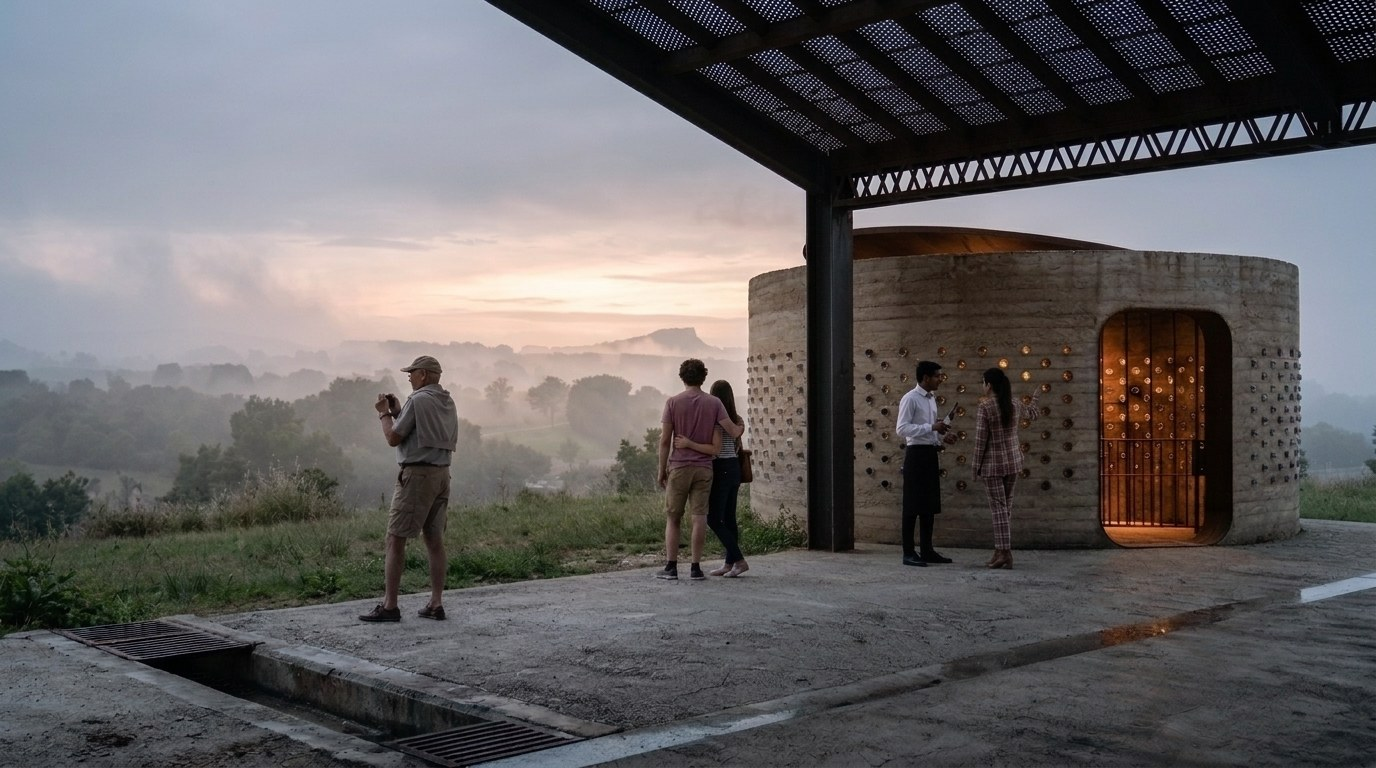
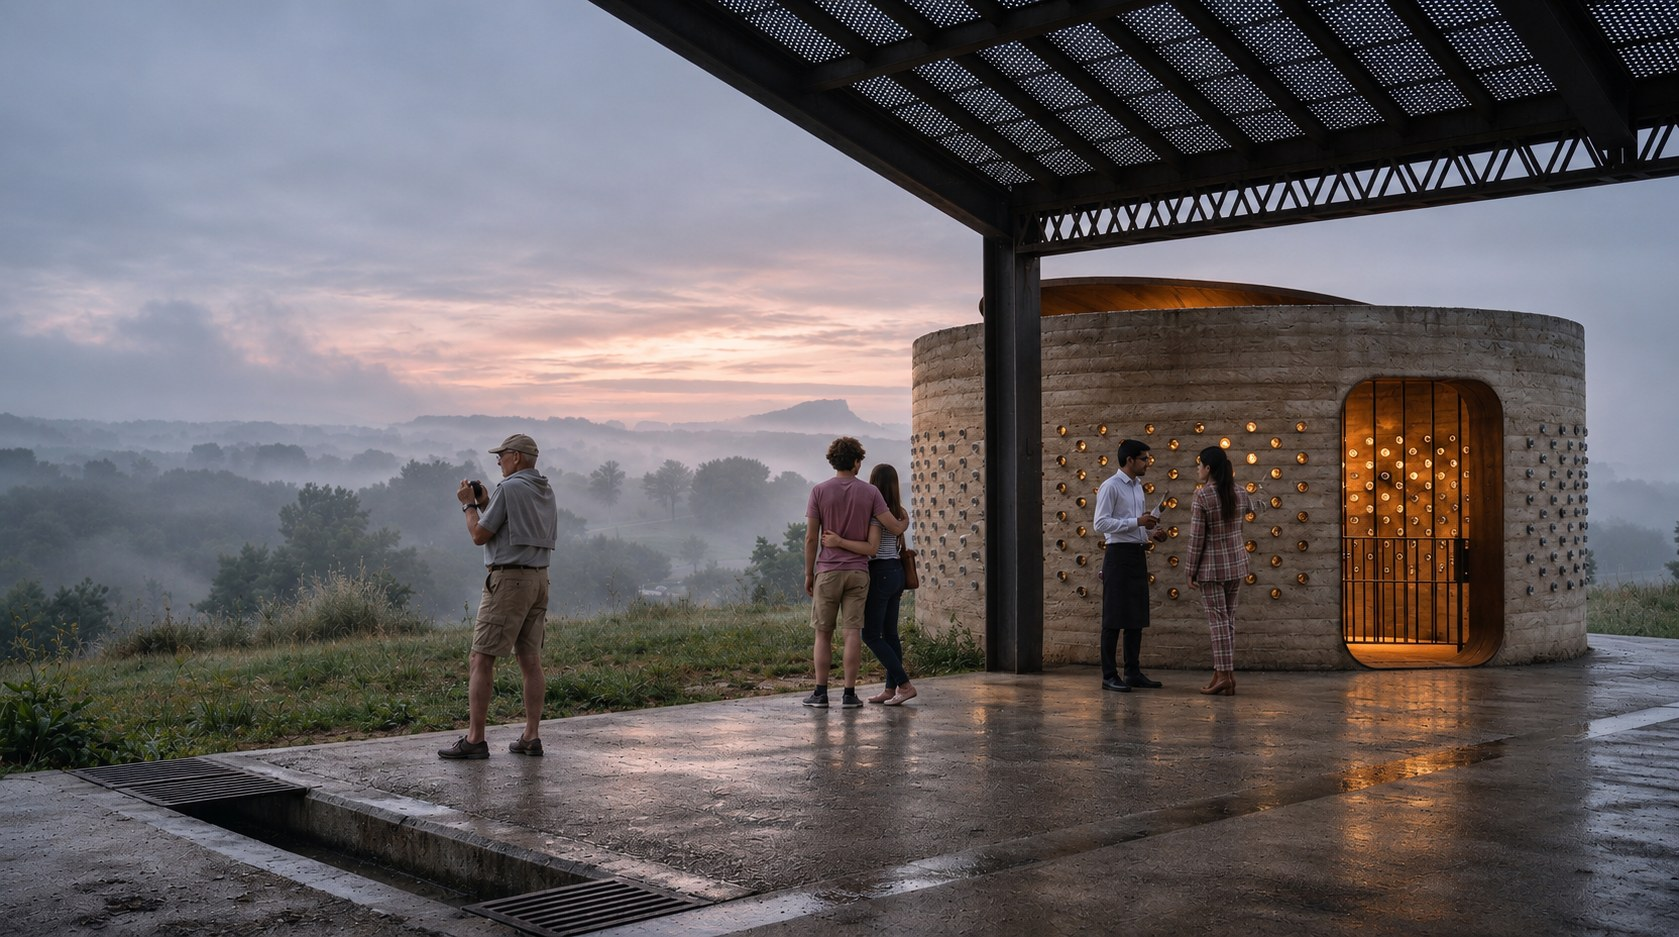
Tasty Tank : nouvelle version du rendu « sous la charpente »
Claude-Session: https://claude.ai/code/session_01KbYdeutu8JXuhA4tDBmytK

diff --git a/index.html b/index.html
@@ -1058,7 +1058,7 @@ var TXT_VENTRES='<p class="lead">Penser la ville contemporaine ne consiste plus 
   var CONC=[
     {org:"Europan 16",t:"Les petits ventres-villes",s:"Limoges · mars 2021 · équipe : collectif ITERA · 3 panneaux A1",res:"Mentionné",g3:"ventres",o:1,eu:[["Le projet sur le site Europan","https://www.europan-europe.eu/fr/project-and-processes/les-petits-ventres-villes"],["Échanges Europan autour du projet","https://www.europan-europe.eu/fr/exchanges/les-petits-ventres-villes"]],docs:[["ventres_axo","Axonométrie d’ensemble"],["ventres_manege","Zoom · le Manège"],["ventres_grdf","Zoom · GRDF"],["ventres_enedis","Zoom · Enedis"]].map(function(d){return {src:"img/doc/"+d[0]+".jpg",m:"img/doc/m_"+d[0]+".jpg",th:"img/t/"+d[0]+".jpg",cap:d[1]}}),txt:TXT_VENTRES,txtEn:TXT_VENTRES_EN,p:pan(["ventres1","ventres2","ventres3"],"Les petits ventres-villes")},
     {org:"YAC · Tree House Module",t:"The Crank House",g3:"crank",thM:"img/rendu/crank_nuit.jpg",lay:"a1",o:1,txt:TXT_CRANK,txtEn:TXT_CRANK_EN,s:"Cabane nomade, sites de châteaux · juin 2020",res:null,p:pan(["crank01","crank08","crank09","crank10","crank11","crank12","crank13"],"The Crank House")},
-    {org:"Bee Breeders · Monte d’Oiro Wine Tasting Room",t:"Tasty Tank",s:"Alenquer, Portugal · 2020 · 4 planches",res:null,g3:"tasty",o:1,thM:"img/rendu/tasty_ensemble.jpg",txt:TXT_TASTY,txtEn:TXT_TASTY_EN,p:pan(["tasty01","tasty02","tasty03","tasty04"],"Tasty Tank")},
+    {org:"Bee Breeders · Monte d’Oiro Wine Tasting Room",t:"Tasty Tank",s:"Alenquer, Portugal · 2020 · 4 planches",res:null,g3:"tasty",o:1,thM:"img/rendu/tasty_ensemble.jpg?v=2",txt:TXT_TASTY,txtEn:TXT_TASTY_EN,p:pan(["tasty01","tasty02","tasty03","tasty04"],"Tasty Tank")},
     {org:"Europan 15",t:"Synergies latentes",s:"Auby · 2019 · équipe : Yves Micault, Nathanaël Pinard, Marc Viaud · 3 panneaux A1",res:null,g3:"synergies",o:1,docs:[["synergies_rive_sud","Rive sud"],["synergies_rive_nord","Rive nord"],["synergies_axo_zoom","Axonométrie · zoom 1"],["synergies_axo_bureau","Axonométrie · bureau"],["synergies_interface","Zoom · interface"],["synergies_base_nautique","Zoom · base nautique"]].map(function(d){return {src:"img/doc/"+d[0]+".jpg",m:"img/doc/m_"+d[0]+".jpg",th:"img/t/"+d[0]+".jpg",cap:d[1]}}),txt:TXT_SYN,txtEn:TXT_SYN_EN,p:pan(["synergies1","synergies2","synergies3"],"Synergies latentes")},
     {org:"Bee Breeders · Transiberian Pit Stops",t:"Siberian Spotlight",s:"Novembre 2016 · 4 panneaux A1",res:"Mention honorable",g3:"siberian",o:1,thM:"img/rendu/siberian_face.jpg",txt:TXT_SIB,txtEn:TXT_SIB_EN,p:pan(["siberian01","siberian02","siberian03","siberian04"],"Siberian Spotlight")},
     {org:"ArkxSite · Site Landmark",t:"Equilibrium",s:"Sagres, Portugal · 2016 · 1 planche",res:null,g3:"equilibrium",o:1,thM:"img/rendu/equilibrium_ensemble.jpg",txt:TXT_EQUI,txtEn:TXT_EQUI_EN,p:pan(["equilibrium"],"Equilibrium")}
@@ -1427,7 +1427,7 @@ var TXT_VENTRES='<p class="lead">Penser la ville contemporaine ne consiste plus 
     im.addEventListener("touchend",function(e){if(sx==null)return;var d=e.changedTouches[0].clientX-sx;if(Math.abs(d)>40)go(c+(d<0?1:-1));sx=null},{passive:true});
   }
   // première image posée tout de suite, la maquette se charge derrière
-  var G3IMG={tasty:"tasty_ensemble.jpg",siberian:"siberian_face.jpg",crank:"crank_nuit.jpg",equilibrium:"equilibrium_ensemble.jpg",varese:"varese_parvis.jpg",agri:"agri_ensemble.jpg?v=2",terminus:"terminus_ensemble.jpg",elle:"elle_ensemble.jpg"};
+  var G3IMG={tasty:"tasty_ensemble.jpg?v=2",siberian:"siberian_face.jpg",crank:"crank_nuit.jpg",equilibrium:"equilibrium_ensemble.jpg",varese:"varese_parvis.jpg",agri:"agri_ensemble.jpg?v=2",terminus:"terminus_ensemble.jpg",elle:"elle_ensemble.jpg"};
   var G3UI={
     varese:{auto:1,v:[["parvis","Depuis le parvis"],["ensemble","Vue d'ensemble"],["hall","La nef"],["parc","Au-dessus du parc"]],note:"Maquette tirée du modèle SketchUp du projet (2013–2014), allégée pour le web. Environnement redessiné simplement ; trains et bus ajoutés. Images rendues à partir de la maquette."},
     agri:{v:[["ensemble","Vue d'ensemble"],["nuit","Au ras des champs"]],note:"Maquette tirée du modèle SketchUp du projet (2014), allégée pour le web. La ville autour vient du même modèle."},
@@ -1468,7 +1468,7 @@ var TXT_VENTRES='<p class="lead">Penser la ville contemporaine ne consiste plus 
     // une vue choisie pendant le chargement est gardée et jouée dès que la maquette est prête
     [].forEach.call(host.querySelectorAll(".g3-ui button[data-v]"),function(b){b.onclick=function(){pend=b.dataset.v;[].forEach.call(host.querySelectorAll(".g3-ui button[data-v]"),function(x){x.setAttribute("aria-pressed",x===b?"true":"false")});uiShow(b)}});
     if(!hasGL()){g3static(host,name);return}
-    import("./js/"+name+"3d.js?v="+(name==="ventres"?"5":name==="tasty"?"218":"215")).then(function(m){
+    import("./js/"+name+"3d.js?v="+(name==="ventres"?"5":name==="tasty"?"219":"215")).then(function(m){
       if(tok!==g3seq||!document.body.contains(host))return;
       var ph=host.querySelector(".g3-load"),pt0=performance.now(),keep=window.__g3keep;window.__g3keep=null;host.__keep=keep;
       var inst;try{inst=m.mount(host)}catch(err){g3static(host,name);return}g3=inst;
@@ -1925,7 +1925,7 @@ function drawFx(){fc.clearRect(0,0,W,Hh);return;const cx=W/2,cy=Hh/2,Mx=Math.hyp
 /* ---------- galerie et écran holographique : l'image se projette au-dessus du disque, la maquette s'efface ---------- */
 function imgsFor(p){const L=window.YM_PROJ||[],it=L.find(x=>x.t===TITLE[p.k]),o=[];if(!it)return o;
   if(it.g3==="crank")return [{th:"img/rendu/crank_nuit.jpg",cap:"Perspective"}];
-  if(it.g3==="tasty")return [{th:"img/rendu/tasty_ensemble.jpg",cap:"Perspective"}];
+  if(it.g3==="tasty")return [{th:"img/rendu/tasty_ensemble.jpg?v=2",cap:"Perspective"}];
   const U=(window.YM_G3UI||{})[it.g3];if(!U&&it.docs)return it.docs.map(d=>({th:d.th,src:d.m||d.src,cap:d.cap}));if(U&&U.norender&&it.docs)return it.docs.map(d=>({th:d.th,src:d.m||d.src,cap:d.cap}));if(U&&!U.norender)U.v.filter(([k])=>(it.g3!=="siberian"||k==="face"||k==="ensemble")&&!(it.g3==="varese"&&k==="parvis2")).forEach(([k,lab])=>{const f=it.g3==="agri"&&k==="ensemble"?"agri_ensemble.jpg?v=2":it.g3+"_"+k+".jpg"+(it.g3==="equilibrium"?(k==="ciel"?"?v=2":(k==="arrivee")?"?v=3":(k==="pointe"||k==="montee")?"?v=4":""):"");o.push({th:"img/rendu/"+f,src:"img/rendu/"+f,cap:lab})});return o}   // uniquement les images rendues, pas les panneaux (Yves)
 function gallery(i){i=-1;const G=$("gal");   // plus de galerie dans la fiche (Yves, 01/11) : une seule illustration en tête
  holoOff(true);if(typeof lbClose==="function"&&window.__lbReady)lbClose();if(i<0){G.hidden=true;G.classList.remove("vis");G.innerHTML="";return}

diff --git a/js/tasty3d.js b/js/tasty3d.js
@@ -177,7 +177,7 @@ export function mount(host, opts = {}) {
 
   /* ---------- image rendue posée sur la maquette ; elle se désagrège au premier geste ---------- */
   const RENDU = new URL("../img/rendu/", import.meta.url);
-  const MEDIA = { ensemble: { img: "tasty_ensemble.jpg" }, salle: { img: "tasty_salle.jpg" }, cylindre: { img: "tasty_cylindre.jpg" } };   // rendus VizMaker d’Yves (02/11)
+  const MEDIA = { ensemble: { img: "tasty_ensemble.jpg?v=2" }, salle: { img: "tasty_salle.jpg" }, cylindre: { img: "tasty_cylindre.jpg" } };   // rendus VizMaker d’Yves (02/11)
   const heroC = document.createElement("canvas"); heroC.className = "g3-hero"; host.appendChild(heroC);
   const hx = heroC.getContext("2d");
   let hero = null, lastPtr = null;
